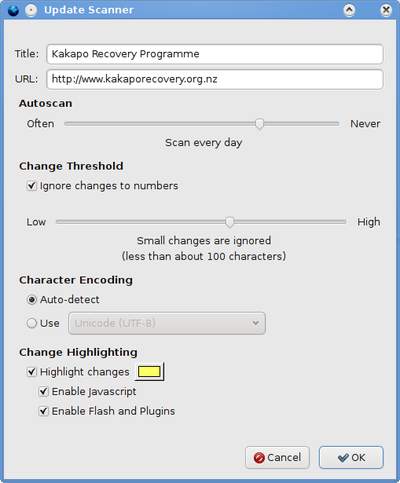
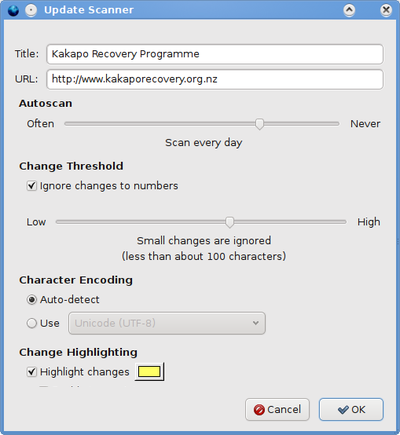
Remove Javascript/Flash options from docs
Fixes #57

diff --git a/page_properties.md b/page_properties.md
@@ -42,11 +42,3 @@ If this doesn't work, you can also select the encoding type manually.
 
 If selected, webpage changes will be highlighted. Click the colour button to set the highlight colour.
 If not selected, the Update Scanner header will not be displayed, and changes will not be highlighted.
-
-### Enable Javascript
-
-Deselect this to disable Javascript when displaying highlighted pages. This can be useful if a page has a script that causes it to "pop out" to the main frame and remove the Update Scanner header.
-
-### Enable Flash and Plugins
-
-Deselect this to disable flash and plugins when displaying highlighted pages.
